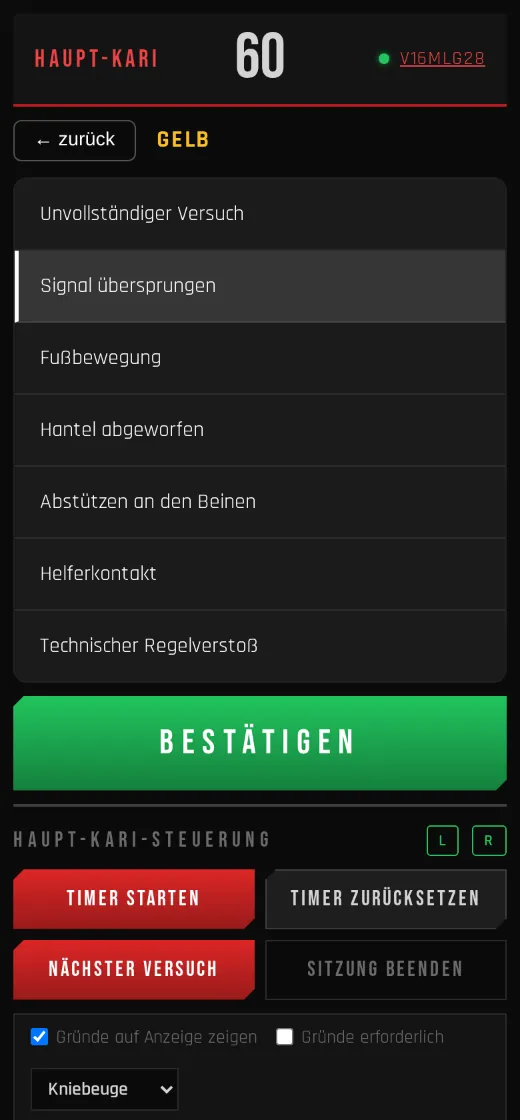
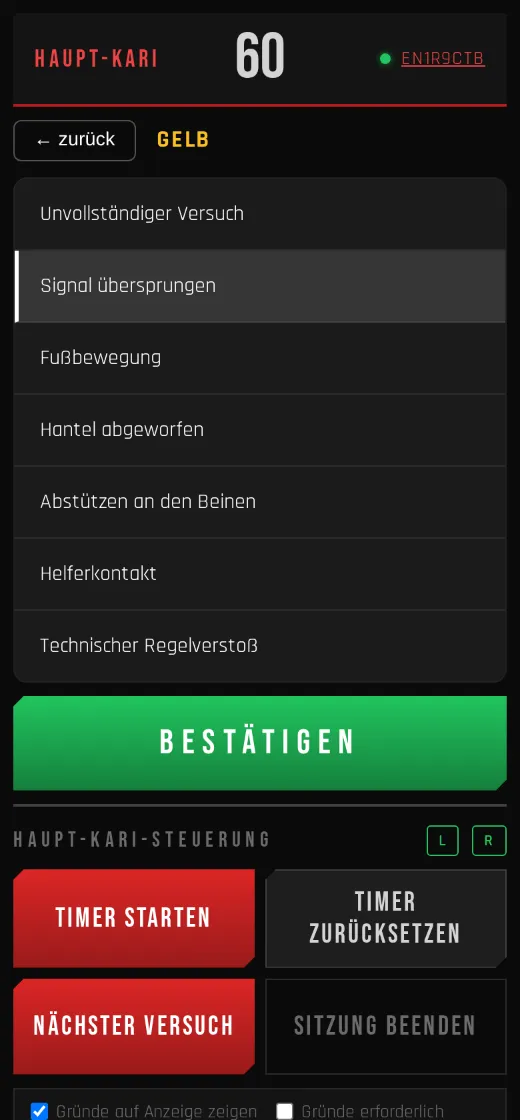
fix(judge): enlarge head judge control buttons to 72 px / 20 px (#259)
* fix(judge): enlarge head judge control buttons to 72 px / 20 px

Start/Reset Timer, Next Lift and End Session were about 45 px high on a
portrait tablet. They now have a 72 px minimum height and 20 px font on
every screen size, still lower than the colour fields.

Closes #257

Claude-Session: https://claude.ai/code/session_01LuFY1Wekcpz75CaFWtvTvX

* docs: changelog and testing docs for head judge button size (#257)

Claude-Session: https://claude.ai/code/session_01LuFY1Wekcpz75CaFWtvTvX

* docs(guide): regenerate judge-reason screenshots with larger head buttons (#257)

Claude-Session: https://claude.ai/code/session_01LuFY1Wekcpz75CaFWtvTvX

---------

diff --git a/src/iron_verdict/static/css/components.css b/src/iron_verdict/static/css/components.css
@@ -318,7 +318,9 @@ button:disabled { opacity: 0.4; cursor: not-allowed; }
     gap: 8px;
 }
 
-.head-grid .btn-blood { font-size: 16px; padding: 12px; letter-spacing: 2px; }
+/* 72 px / 20 px on every screen size (#257): easy to hit on a tablet in portrait,
+   still about a third of the colour fields so the vote keeps visual priority. */
+.head-grid .btn-blood { font-size: 20px; padding: 12px; letter-spacing: 2px; min-height: 72px; }
 
 .settings-bar {
     display: flex;

diff --git a/tests/e2e/test_head_controls_size.py b/tests/e2e/test_head_controls_size.py
@@ -1,0 +1,36 @@
+"""Head judge control buttons are large enough to hit in portrait (issue #257).
+
+Feedback from a competition (Android tablet, Chrome, portrait): Start Timer,
+Reset Timer, Next Lift and End Session were only about 45 px high. They now
+have a 72 px minimum height on every screen size and stay lower than the
+colour fields, so the vote keeps visual priority.
+"""
+
+import pytest
+from playwright.sync_api import expect
+
+BUTTONS = ("Start Timer", "Reset Timer", "Next Lift", "End Session")
+MIN_HEIGHT = 72
+
+
+@pytest.mark.parametrize("size", [(800, 1280), (390, 844)], ids=["tablet", "phone"])
+def test_head_controls_at_least_72px_and_lower_than_color_fields(competition, size):
+    """Head judge in portrait (800×1280 tablet, 390×844 phone) → each of the four
+    control buttons is at least 72 px high and lower than every colour field."""
+    head = competition.create_session_and_join_head()
+    head.set_viewport_size({"width": size[0], "height": size[1]})
+
+    color_fields = head.locator(".vote-btn")
+    expect(color_fields).to_have_count(4)
+    smallest_color_field = min(
+        color_fields.nth(i).bounding_box()["height"] for i in range(4)
+    )
+
+    for name in BUTTONS:
+        button = head.get_by_role("button", name=name)
+        expect(button).to_be_visible()
+        height = button.bounding_box()["height"]
+        assert height >= MIN_HEIGHT, f"{name}: {height} px < {MIN_HEIGHT} px"
+        assert height < smallest_color_field, (
+            f"{name}: {height} px not lower than colour field ({smallest_color_field} px)"
+        )

diff --git a/docs/testing.md b/docs/testing.md
@@ -140,6 +140,7 @@ Requirements and caveats:
 | [test_lift_type_lock.py](tests/e2e/test_lift_type_lock.py) | Lift type locked after a vote (#254): the chief referee's change after a side judge voted shows the inline hint and the select returns to squat, free again after Next Lift; a reason picked but not locked is dropped when the lift type changes (LOCK IN disappears with mandatory reasons, the display shows the new bench reason), also the chief referee's own one; the refusal after a chief referee reload (real lift type, hint gone, refused again); a vote locked offline with a squat reason is rejected after the switch to bench on reconnect (colour kept, new reason, locked). |
 | [test_vote_delivery.py](tests/e2e/test_vote_delivery.py) | Vote cast while offline shows "Sending…" and is delivered after reconnect; pending vote survives a reload; stale vote after Next Lift is discarded with a message (also when reasons became mandatory meanwhile — `lift_changed` wins over `reason_required`); server-rejected vote (reason became mandatory) unlocks the screen with an inline message, no alert. Cuts the network with the init-script `WebSocket` patch from [network_switch.py](tests/e2e/network_switch.py), whose on/off switch lives in `localStorage`, so it survives reloads. |
 | [test_head_controls_offline.py](tests/e2e/test_head_controls_offline.py) | Head judge controls without a connection (#234): with the network cut (`network_switch.py`, head page reloaded with the switch) Start/Reset Timer, Next Lift, End Session and the three settings are disabled and a note says why, while the head judge's own LOCK IN stays usable ("Sending…"); after reconnect they are active without a reload and "Start Timer" reaches the other judge; a reload while offline shows "Connecting…" and the controls are active once back. |
+| [test_head_controls_size.py](tests/e2e/test_head_controls_size.py) | Head judge control buttons in portrait (#257): at 800×1280 (tablet) and 390×844 (phone) Start/Reset Timer, Next Lift and End Session are each at least 72 px high and lower than every colour field. |
 | [test_session_stuck_states.py](tests/e2e/test_session_stuck_states.py) | Next Lift mid-vote; a judge disconnects mid-vote without voting → no result (IPF rule via the browser) and Next Lift still works; a judge who locked and then disconnected still counts (three lights and the right verdict on display and head judge, #229); full reset of vote state (colour buttons usable again). |
 | [test_connectivity_indicators.py](tests/e2e/test_connectivity_indicators.py) | L/R dots on head screen update as side judges join/disconnect/reconnect (one flow); own dots of all three judges connected, then connected → reconnecting → connected (uses an init script to monkey-patch `WebSocket`); `server_restarting` broadcast renders the label (broadcast directly on `connection_manager` — the one allowed simulation of server internals, see "Conventions"). |
 | [test_fast_reconnect.py](tests/e2e/test_fast_reconnect.py) | Reconnect speed: after an outage long enough for the retry wait to reach its 3 s cap, the judge is connected again within ~5 s of the network returning (vote confirmed, reload reconnects); a synthetic `online` event right after a failed attempt connects within 1.5 s with exactly one new socket (`visibilitychange` / `pageshow` share the code path; Vitest only). Uses the network switch from `network_switch.py`; ~10–15 s per test (waits out the real retry delays). Fails against the old 16 s backoff. |
@@ -218,6 +219,7 @@ Frontend coverage comes from two sources: Vitest unit tests for plain JS modules
 | Judge reconnection — refresh before/after vote, locked vote cannot be changed | `test_judge_reconnection.py`, `test_boot_loading.py`, `test_reload_reconnecting.py` |
 | Vote delivery — sending/confirmed states, offline vote, reload, rejection | `test_vote_delivery.py` |
 | Head judge controls locked without a connection, active again after reconnect | `test_head_controls_offline.py` |
+| Head judge control buttons large enough in portrait (tablet, phone) | `test_head_controls_size.py` |
 | Display — orbs, verdict, timer | `test_competition_flow.py`, `test_display_resilience.py` |
 | Connectivity indicators (L/R dots) | `test_connectivity_indicators.py` |
 | Reconnect speed — capped retry wait, `online` trigger | `test_fast_reconnect.py` |

diff --git a/CHANGELOG.md b/CHANGELOG.md
@@ -11,6 +11,7 @@ Versioning follows [Semantic Versioning](https://semver.org/).
 ### Changed
 
 ### Fixed
+- The chief referee's Start Timer, Reset Timer, Next Lift and End Session buttons are larger and easier to hit, especially on a tablet in portrait
 
 ### Removed
 
